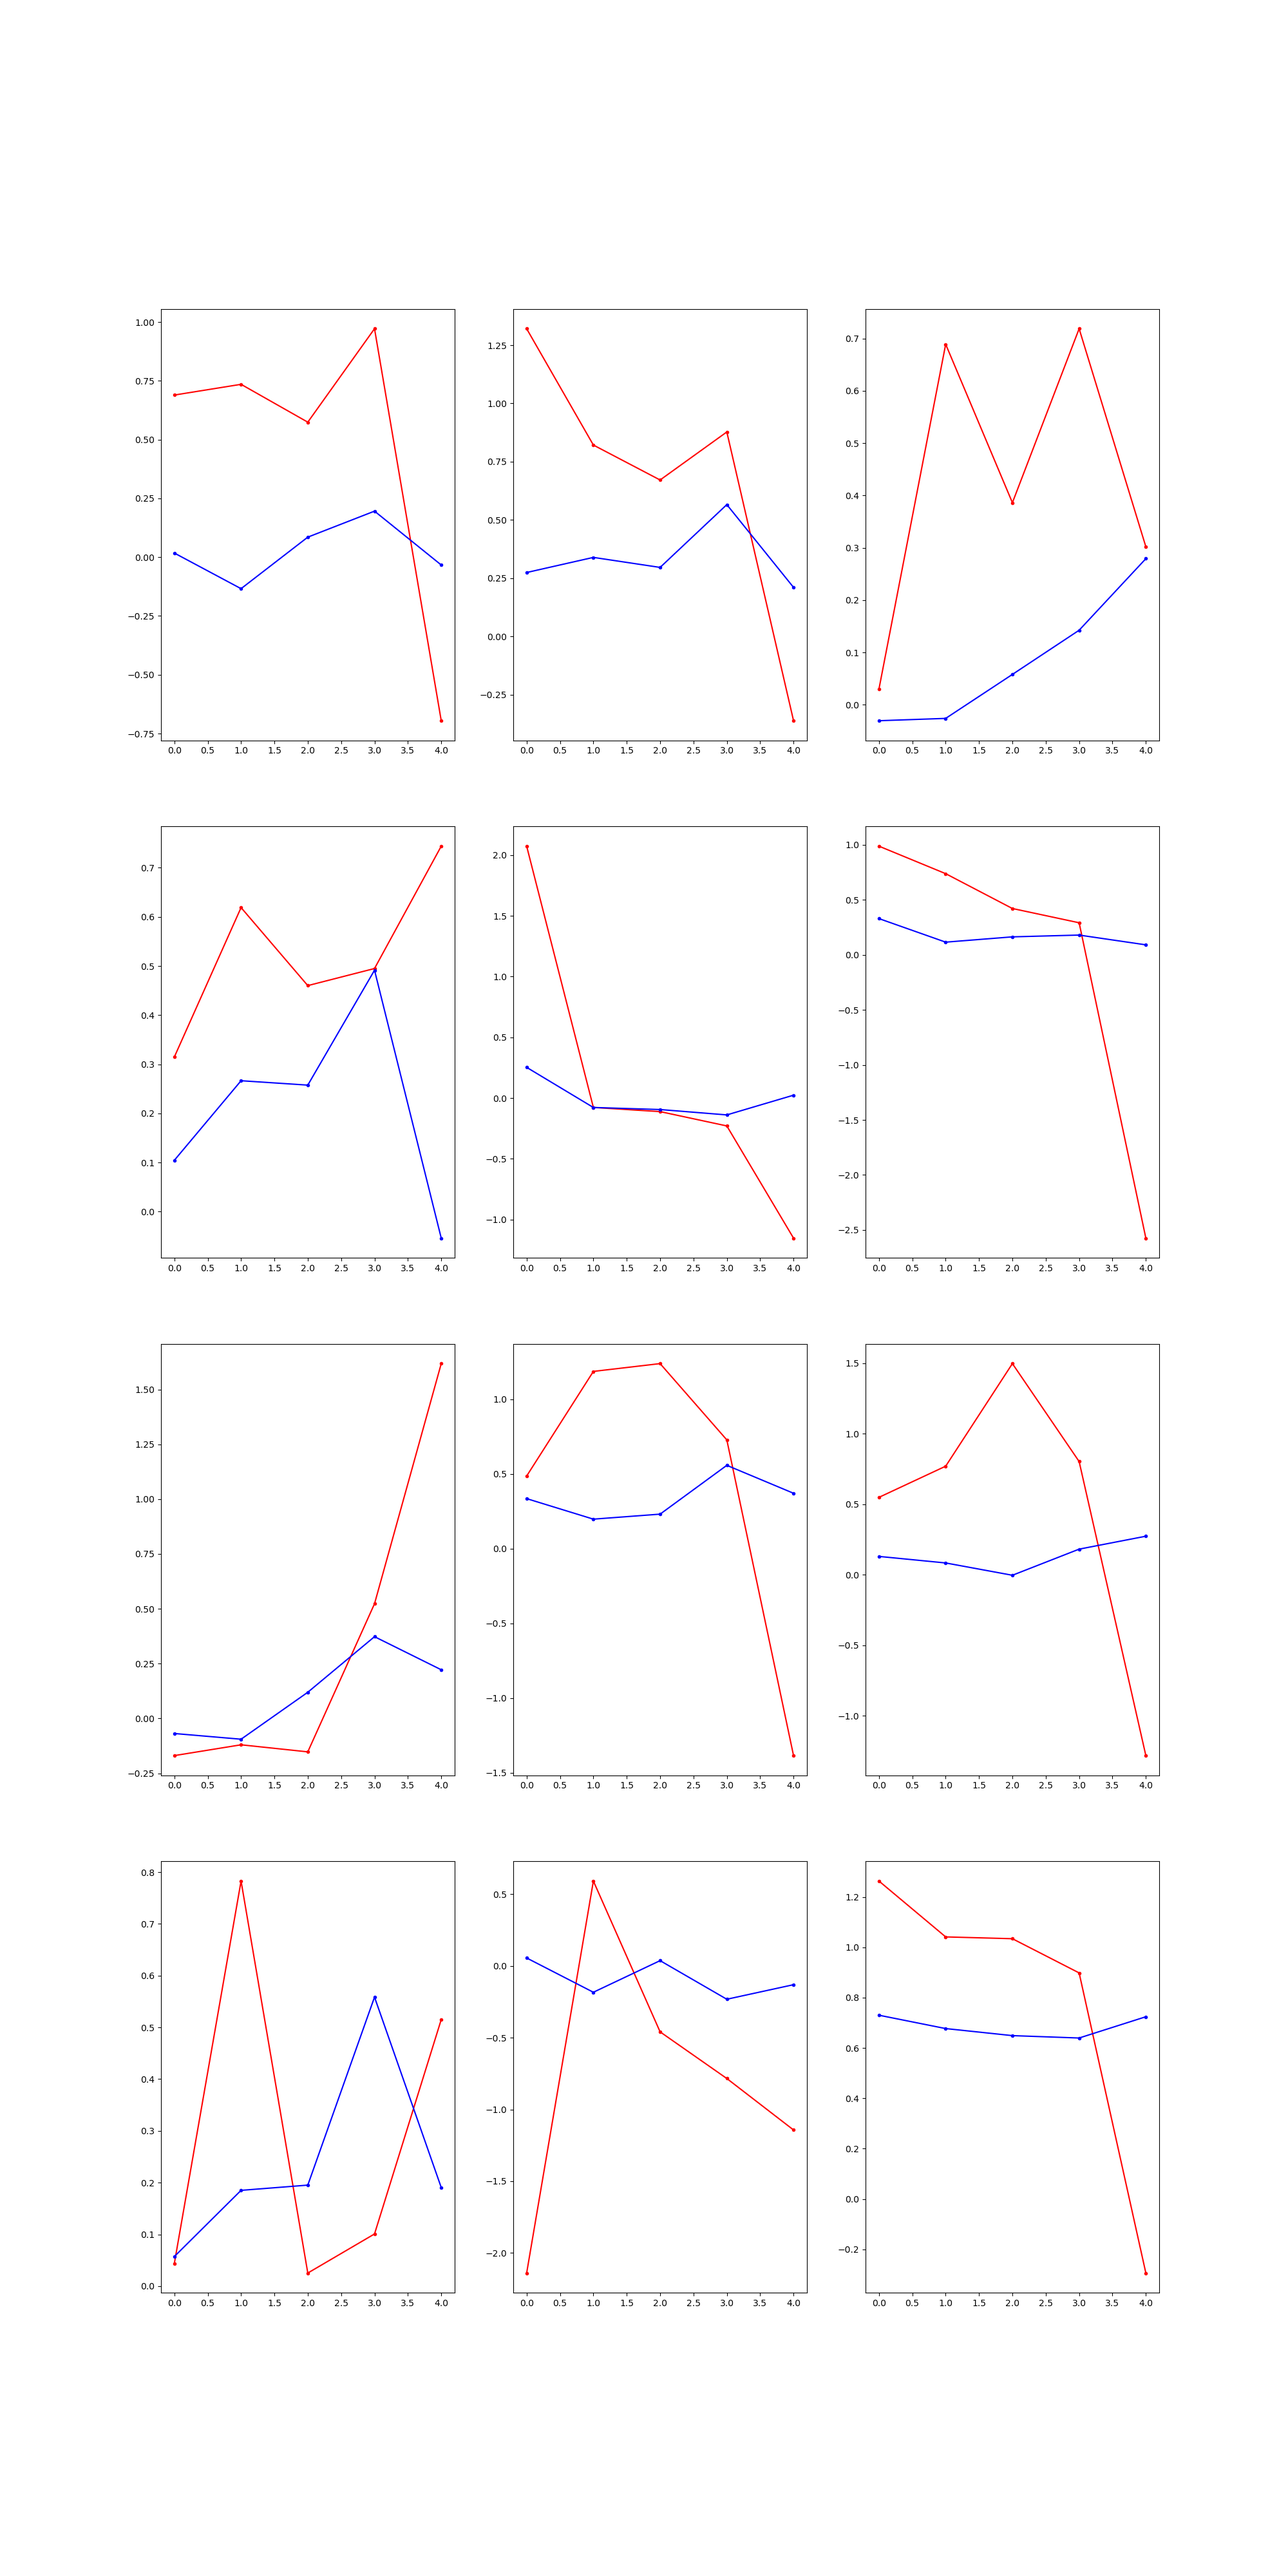
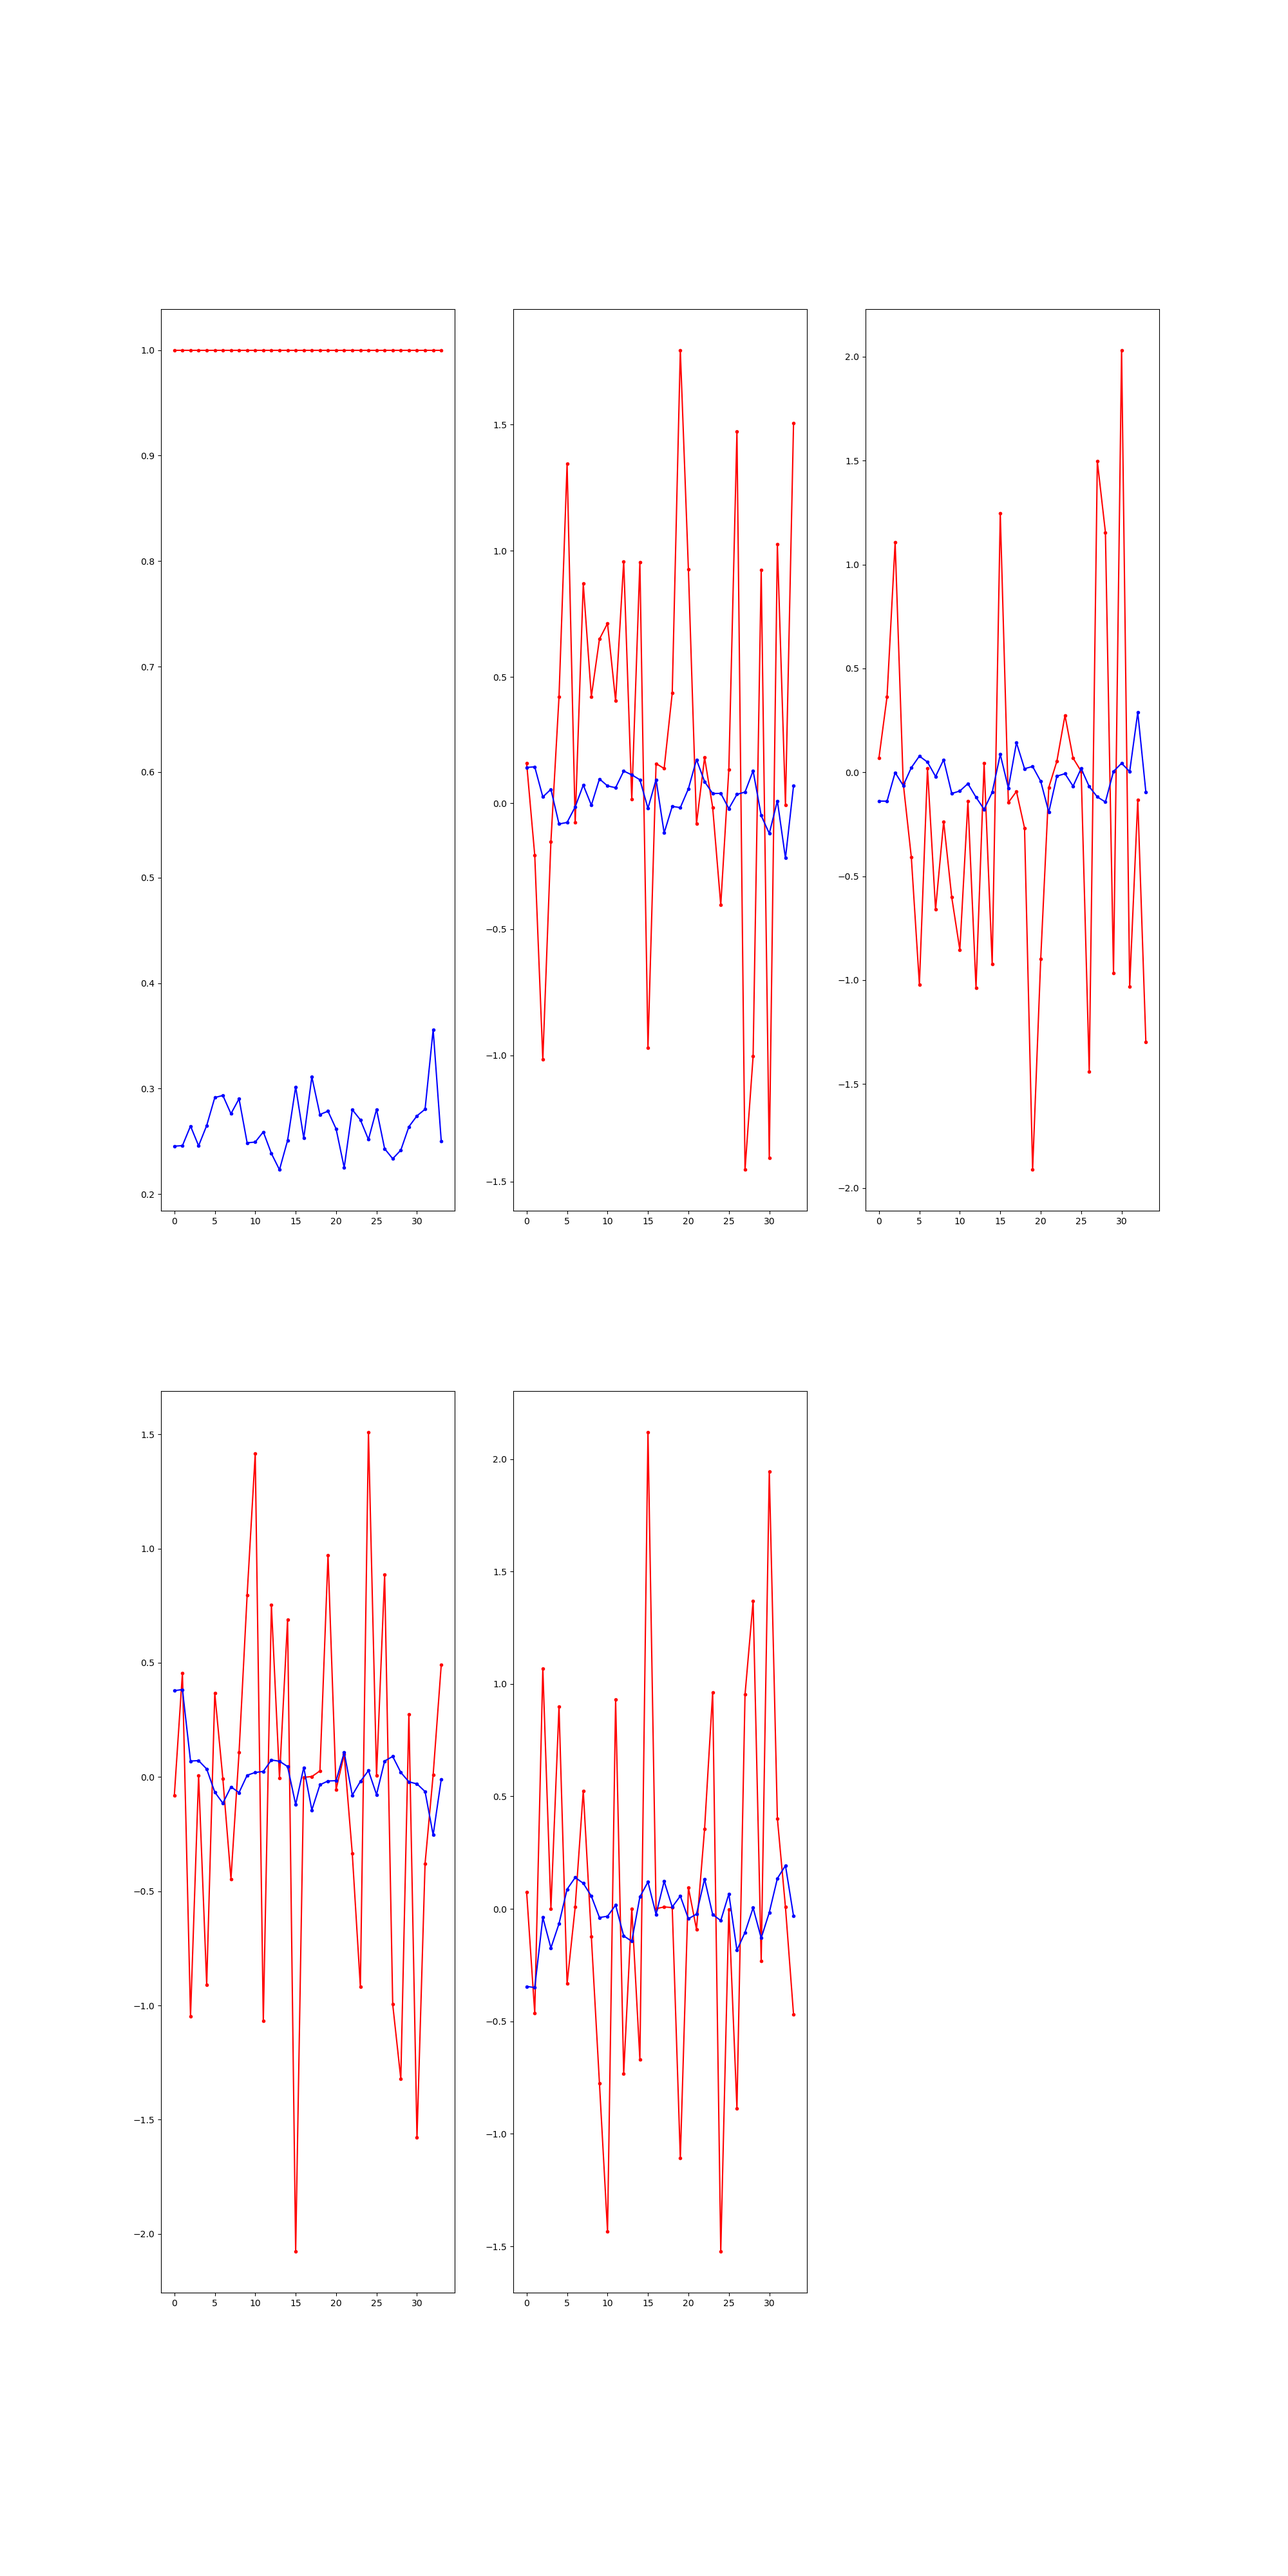
added reward net

diff --git a/lsde_model.py b/lsde_model.py
@@ -88,7 +88,7 @@ class LatentSDE(nn.Module):
 
     def __init__(self, data_size, latent_size, reward_size, context_size, hidden_size, action_dim, t0=0,
                  skip_every=1,
-                 t1=0.1, dt=0.05):
+                 t1=0.1, dt=0.01):
         super(LatentSDE, self).__init__()
         # hyper-parameters
         kl_anneal_iters = 700
@@ -104,6 +104,12 @@ class LatentSDE(nn.Module):
         self.skip_every = skip_every
         self.reward_size = reward_size
         self.latent_size = latent_size
+        self.reward_net = self.f_net = nn.Sequential(
+            nn.Linear(data_size, 10),
+            nn.ReLU(),
+            nn.Linear(10, 1),
+            nn.ReLU(),
+        )
         # Decoder.
         self.f_net = nn.Sequential(
             nn.Linear(latent_size , hidden_size),
@@ -137,7 +143,7 @@ class LatentSDE(nn.Module):
             nn.Tanh(),
             nn.Linear(hidden_size, hidden_size),
             nn.Tanh(),
-            nn.Linear(hidden_size, reward_size + data_size),
+            nn.Linear(hidden_size, data_size),
         )
         latent_and_action_size = latent_size + action_dim + data_size
         self.action_encode_net = nn.Sequential(
@@ -149,7 +155,7 @@ class LatentSDE(nn.Module):
         self.optimizer = optim.Adam(params=self.parameters(), lr=lr_init)
         self.scheduler = torch.optim.lr_scheduler.ExponentialLR(optimizer=self.optimizer, gamma=lr_gamma)
         self.kl_scheduler = LinearScheduler(iters=kl_anneal_iters)
-
+        self.mse_loss = torch.nn.MSELoss()
     def contextualize(self, ctx):
         self._ctx = ctx  # A tuple of tensors of sizes (T,), (T, batch_size, d).
 
@@ -168,7 +174,7 @@ class LatentSDE(nn.Module):
         out = [g_net_i(y_i) for (g_net_i, y_i) in zip(self.g_nets, y)]
         return torch.cat(out, dim=1)
 
-    def forward(self, xs, actions, rewards, total_step, adjoint=True, method="reversible_heun"):
+    def forward(self, xs, actions, rewards, adjoint=True, method="reversible_heun"):
         assert xs.shape[0] != 0, f'xs does not contain data, {xs.shape}'
         ts = torch.linspace(self.t0, self.t1, steps=xs.shape[0], device=device)
         ts = torch.permute(ts.repeat(xs.shape[1], 1).to(device), (1, 0))
@@ -219,32 +225,18 @@ class LatentSDE(nn.Module):
             else:
                 cum_log_ratio = torch.cat((cum_log_ratio, log_ratio), dim=0)
         xs_dist = Normal(loc=predicted_xs, scale=noise_std)
-        xs_target = torch.concatenate((xs, rewards), dim=2)
-        self.plot_gym_results(xs_target, predicted_xs, fname=f'results/plts/train_plt_{total_step}')
-        log_pxs = xs_dist.log_prob(xs_target).sum(dim=(0, 2)).mean(dim=0)
+        predicted_reward = self.reward_net(predicted_xs)
+        reward_loss = self.mse_loss(predicted_reward, rewards)
+        log_pxs = xs_dist.log_prob(xs).sum(dim=(0, 2)).mean(dim=0)
 
         qz0 = torch.distributions.Normal(loc=qz0_mean, scale=qz0_logstd.exp())
         pz0 = torch.distributions.Normal(loc=self.pz0_mean, scale=self.pz0_logstd.exp())
         logqp0 = torch.distributions.kl_divergence(qz0, pz0).sum(dim=1).mean(dim=0)
         logqp_path = cum_log_ratio.sum(dim=0).mean(dim=0)
-        return log_pxs, logqp0 + logqp_path
+        return log_pxs, logqp0 + logqp_path, reward_loss, torch.concatenate((predicted_reward, predicted_xs), dim=2)
 
-    @torch.no_grad()
-    def plot_gym_results(self, X, Xrec, idx=0, show=False, fname='reconstructions.png'):
-        tt = X.shape[1]
-        D = np.ceil(X.shape[2]).astype(int)
-        nrows = np.ceil(D / 3).astype(int)
-        lag = X.shape[1] - Xrec.shape[1]
-        plt.figure(2, figsize=(20, 40))
-        for i in range(D):
-            plt.subplot(nrows, 3, i + 1)
-            plt.plot(range(0, tt), X[idx, :, i].detach().numpy() , 'r.-')
-            plt.plot(range(lag, tt), Xrec[idx, :, i].detach().numpy() , 'b.-')
-        plt.savefig(f'{fname}-{idx}')
-        if show is False:
-            plt.close()
 
-    def train(self, loss):
+    def opt_loss(self, loss):
         self.optimizer.zero_grad()
         loss.backward()
         torch.nn.utils.clip_grad_norm_(parameters=self.parameters(), max_norm=10, norm_type=2.0)
@@ -252,8 +244,8 @@ class LatentSDE(nn.Module):
         self.scheduler.step()
         self.kl_scheduler.step()
 
-    def loss(self, log_pxs, log_ratio):
-        loss = -log_pxs + log_ratio * self.kl_scheduler.val
+    def loss(self, log_pxs, log_ratio, reward_loss):
+        loss = -log_pxs + log_ratio * self.kl_scheduler.val + reward_loss
         return loss
 
     @torch.no_grad()
@@ -281,7 +273,8 @@ class LatentSDE(nn.Module):
                 predicted_xs = xs_hat[-1]
             else:
                 predicted_xs = torch.cat((predicted_xs, xs_hat[-1]), dim=0)
-        return predicted_xs
+            rewards = self.reward_net(predicted_xs)
+        return torch.concatenate((rewards, predicted_xs), dim=1)
 
 
 class LatentSDEModel:
@@ -299,8 +292,22 @@ class LatentSDEModel:
         self.reward_size = reward_size
         self.network_size = network_size
         self.elite_model_idxes = []
-        self.ensemble_model = LatentSDE(state_size, state_size + reward_size, 1, context_size, hidden_size, action_size)
+        self.ensemble_model = LatentSDE(state_size, state_size, 1, context_size, hidden_size, action_size)
         self.scaler = StandardScaler()
+
+    def plot_gym_results(self, X, Xrec, idx=0, show=False, fname='reconstructions.png'):
+        tt = X.shape[0]
+        D = np.ceil(X.shape[2]).astype(int)
+        nrows = np.ceil(D / 3).astype(int)
+        lag = X.shape[0] - Xrec.shape[0]
+        plt.figure(2, figsize=(20, 40))
+        for i in range(D):
+            plt.subplot(nrows, 3, i +1)
+            plt.plot(range(0, tt), X[:, idx, i].detach().cpu().numpy() , 'r.-')
+            plt.plot(range(lag, tt), Xrec[:, idx, i].detach().cpu().numpy() , 'b.-')
+        plt.savefig(f'{fname}-{idx}')
+        if show is False:
+            plt.close()
 
     def train(self, inputs, labels, actions, rewards, total_step, batch_size=256, holdout_ratio=0.,
               max_epochs_since_update=5):
@@ -344,7 +351,8 @@ class LatentSDEModel:
         batch_size = 500
         print(f'training model, train_size : {train_inputs.shape}')
         # todo itertools.count()
-        for epoch in itertools.count():
+        train_count = 30
+        for epoch in range(train_count):
             train_idx = np.vstack([range(train_inputs.shape[0]) for _ in range(self.network_size)])
             # train_idx = np.vstack([np.arange(train_inputs.shape[0])] for _ in range(self.network_size))
             for start_pos in range(0, train_inputs.shape[0], batch_size):
@@ -362,10 +370,9 @@ class LatentSDEModel:
                 train_reward = self.chunkify_into_steps(train_reward, train_steps)
                 for i in range(train_input.shape[0]):
                     assert train_input[i].shape[1] > 1, f'steps for prediction is not > 1, {train_input[i].shape[1]}'
-                    log_pxs, logqp_path = self.ensemble_model(train_input[i], train_action_input[i], train_reward[i],
-                                                              total_step)
-                    loss = self.ensemble_model.loss(log_pxs, logqp_path)
-                    self.ensemble_model.train(loss)
+                    log_pxs, logqp_path, reward_loss, _ = self.ensemble_model(train_input[i], train_action_input[i], train_reward[i])
+                    loss = self.ensemble_model.loss(log_pxs, logqp_path, reward_loss)
+                    self.ensemble_model.opt_loss(loss)
                     losses.append(loss)
 
             with torch.no_grad():
@@ -373,11 +380,15 @@ class LatentSDEModel:
 
                 holdout_mse_losses = np.asarray([])
                 for i in range(train_input.shape[0]):
-                    ho_log_pxs, ho_logqp_path = self.ensemble_model(holdout_inputs[i], holdout_actions_inputs[i],
-                                                                    holdout_rewards[i], total_step)
-                    holdout_mse_loss = self.ensemble_model.loss(ho_log_pxs, ho_logqp_path)
+                    ho_log_pxs, ho_logqp_path , mse_reward_loss, xs_pred = self.ensemble_model(holdout_inputs[i], holdout_actions_inputs[i],
+                                                                    holdout_rewards[i])
+                    holdout_mse_loss = self.ensemble_model.loss(ho_log_pxs, ho_logqp_path, mse_reward_loss)
                     holdout_mse_loss = holdout_mse_loss.detach().cpu().numpy()
                     holdout_mse_losses = np.append(holdout_mse_losses, holdout_mse_loss)
+                if epoch % (train_count -1) == 0:
+                    target = torch.concatenate((holdout_rewards[train_input.shape[0]-1], holdout_inputs[train_input.shape[0]-1]), dim=1)
+                    self.plot_gym_results(target, xs_pred, fname=f'results/plts/train_plt_{total_step}')
+
                 sorted_loss_idx = np.argsort(holdout_mse_losses)
                 self.elite_model_idxes = sorted_loss_idx[:self.elite_size].tolist()
                 break_train = self._save_best(epoch, holdout_mse_losses)
